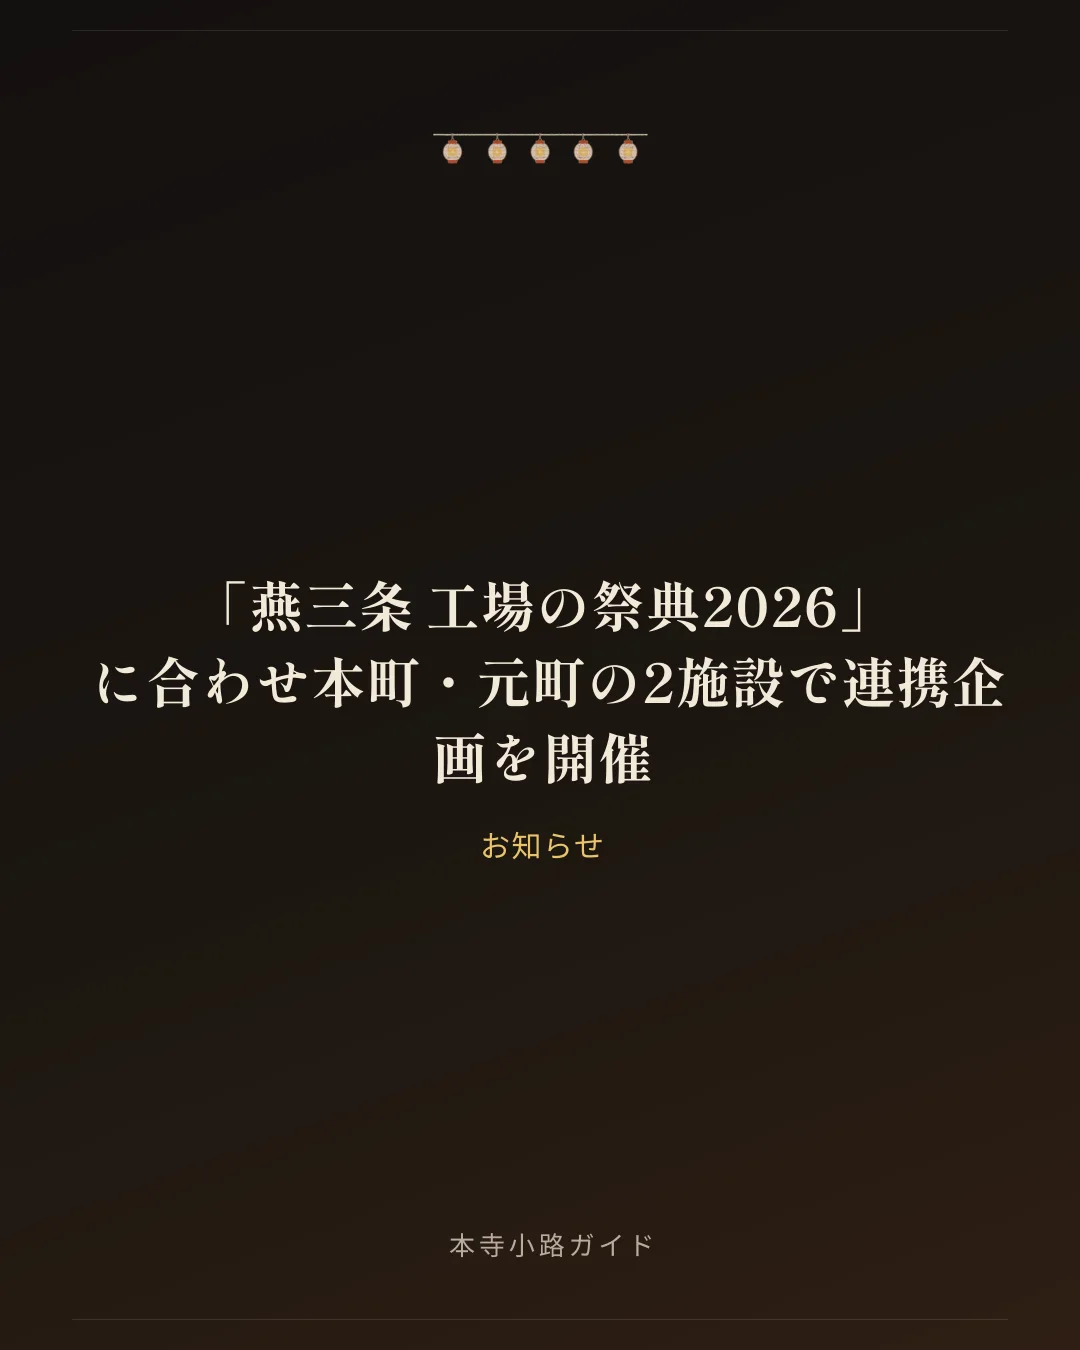
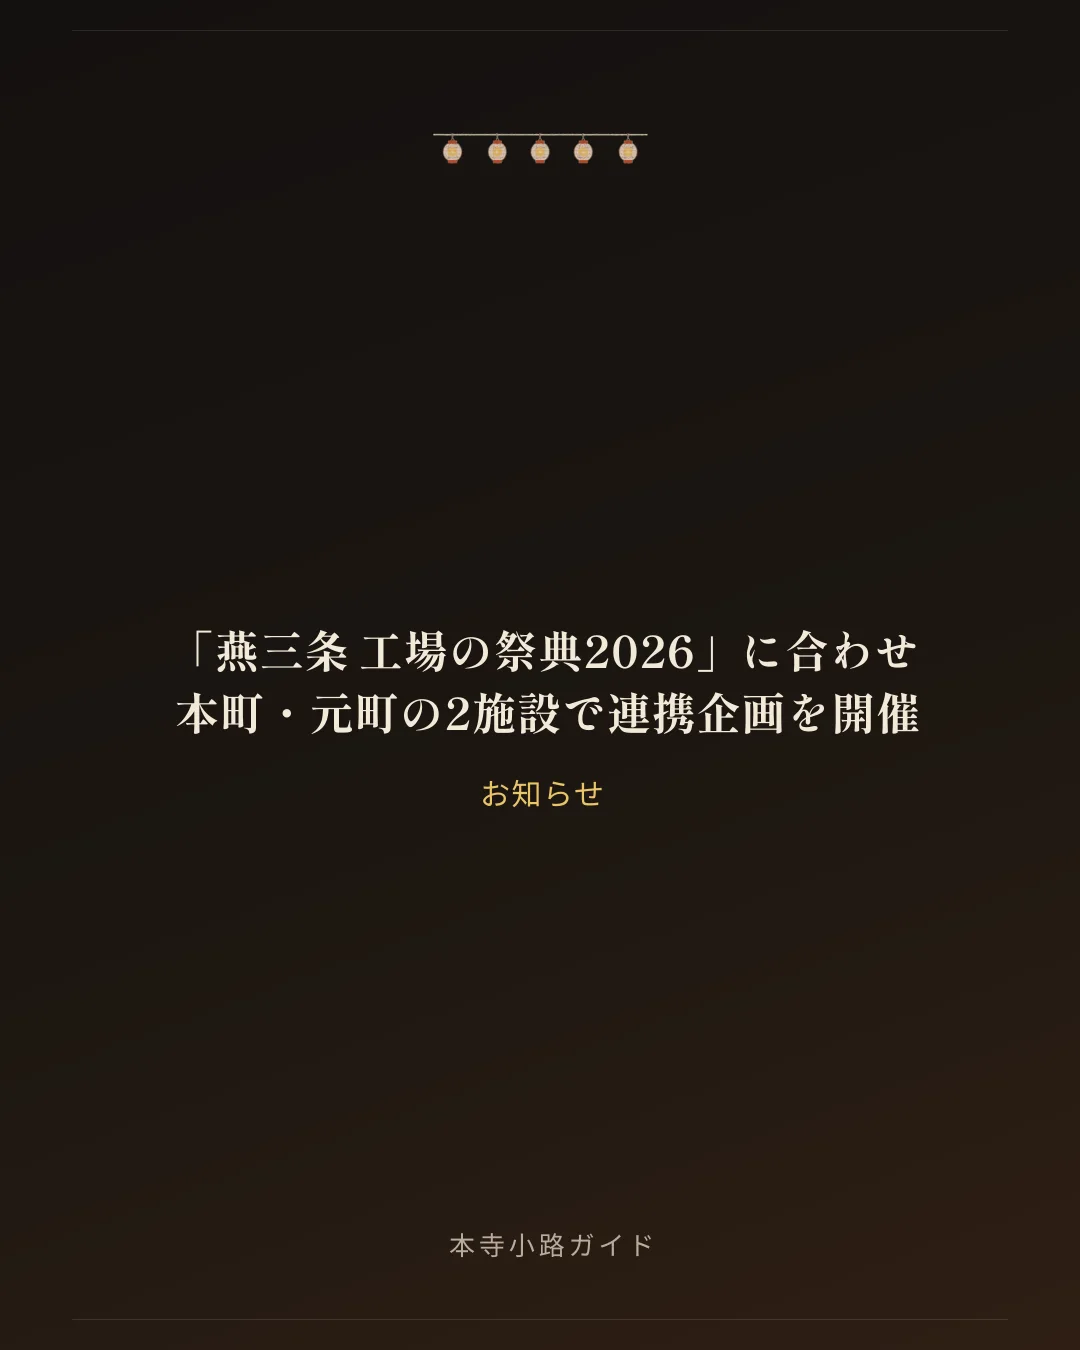
fix(ogpImage): 「工場の祭典2026」連携企画告知タイトルの改行を決め打ちする
一般ロジックだと3行になり、2行目が長すぎるうえ「連携企画」が
「連携企」「画を開催」と複合語の途中で割れて読みにくかった。
このタイトルに完全一致した場合だけ決め打ちの2行に固定する
（他のタイトルの見た目には影響しない）。回帰テストを追加。

Instagramフィード画像を再生成し反映（news-kouba-no-saiten-
ws-2026-homarea-rekimin-feed.webp）。

Claude-Session: https://claude.ai/code/session_01Yb1d7tiJ74KRURSTwXNbhN

Changed region(s): [[0.0917, 0.4356, 0.9472, 0.6533]]

diff --git a/scripts/lib/ogpImage.test.ts b/scripts/lib/ogpImage.test.ts
@@ -102,4 +102,17 @@ describe('fitFeedTitle', () => {
     const result = fitFeedTitle('三条別院で9月10日に「第2回パレスチナ学習会」開催、平和を考える');
     expect(result.lines.length).toBe(2);
   });
+
+  it('個別タイトルの決め打ち改行（回帰テスト: 「工場の祭典2026」連携企画告知）', () => {
+    // 一般ロジックだと3行になり、2行目が長すぎるうえ「連携企画」が
+    // 「連携企」「画を開催」と複合語の途中で割れて読みにくかった
+    // （2行に収める組み合わせが無く3行フォールバックへ落ちるケース）。
+    // wrapJapaneseTitle側の一般ルールでは改善しづらかったため、この
+    // タイトルだけ決め打ちの2行に固定してある。他のタイトルの見た目には
+    // 影響しない（完全一致した場合のみ分岐する）。
+    const title = '「燕三条 工場の祭典2026」に合わせ本町・元町の2施設で連携企画を開催';
+    const result = fitFeedTitle(title);
+    expect(result.lines).toEqual(['「燕三条 工場の祭典2026」に合わせ', '本町・元町の2施設で連携企画を開催']);
+    expect(result.fontSize).toBe(44);
+  });
 });

diff --git a/scripts/lib/ogpImage.ts b/scripts/lib/ogpImage.ts
@@ -448,6 +448,13 @@ function startsWithAvoidedParticle(line: string): boolean {
  * 末尾を省略する。テスト用にexportする。
  */
 export function fitFeedTitle(title: string): { fontSize: number; lines: string[] } {
+  if (title === '「燕三条 工場の祭典2026」に合わせ本町・元町の2施設で連携企画を開催') {
+    return {
+      fontSize: 44,
+      lines: ['「燕三条 工場の祭典2026」に合わせ', '本町・元町の2施設で連携企画を開催'],
+    };
+  }
+
   let fallback: { fontSize: number; lines: string[] } | undefined;
   let accepted: { tierIndex: number; fontSize: number; lines: string[] } | undefined;
 
